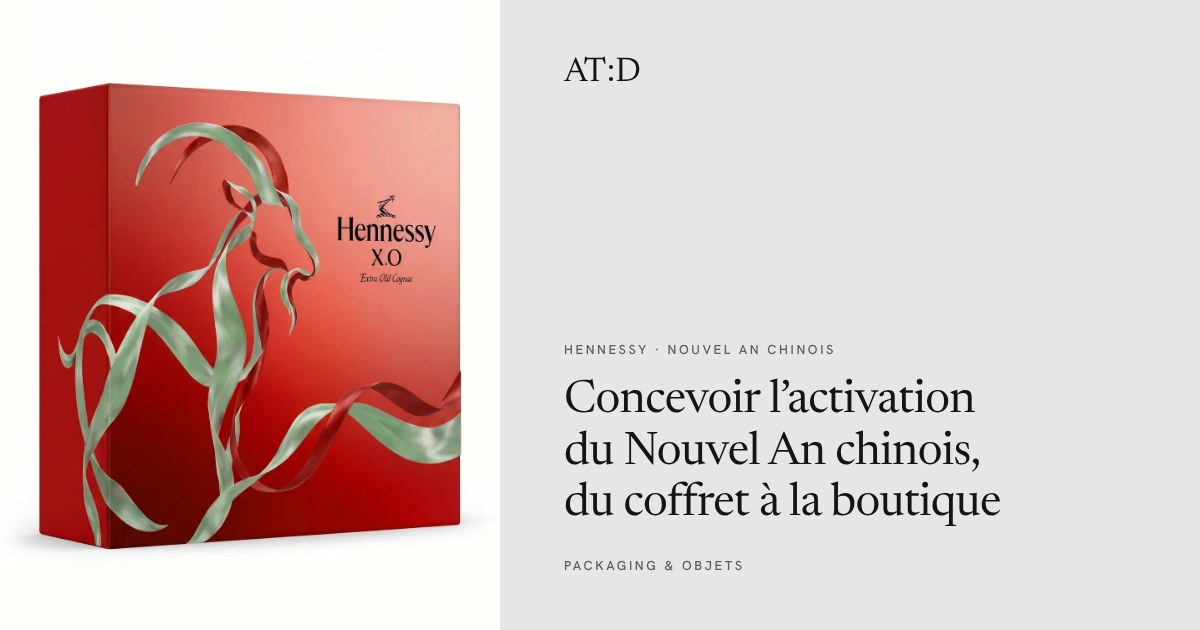
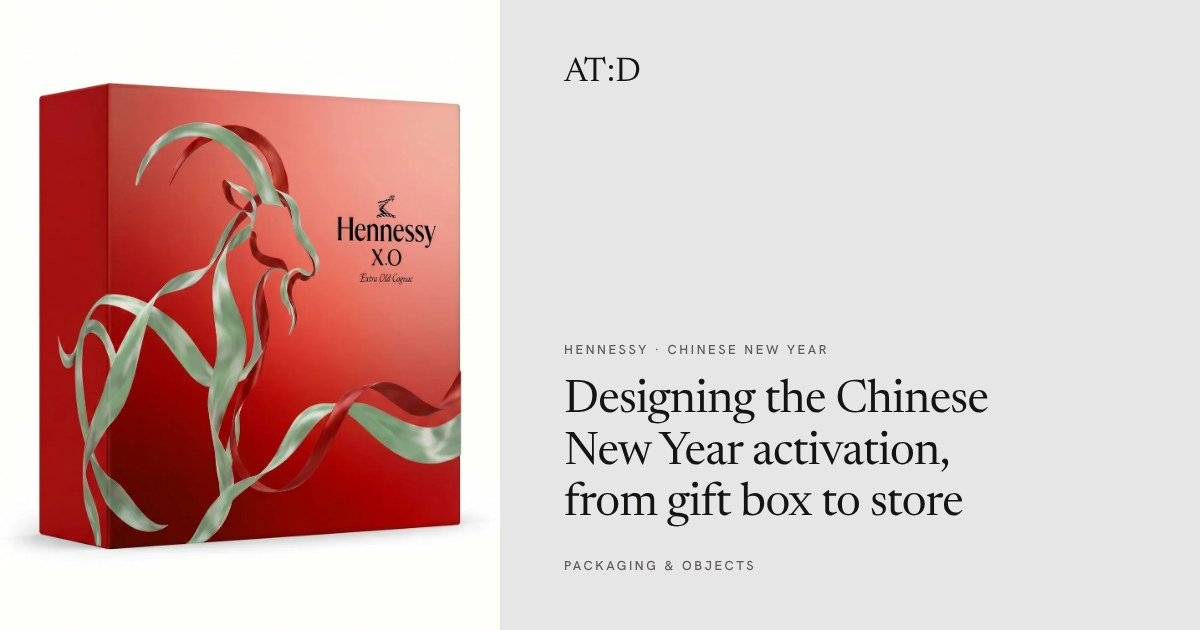
Pages de partage en anglais
Claude-Session: https://claude.ai/code/session_01TzkrsKnutAh2YQEZf65EBJ

Changed region(s): [[0.4625, 0.6032, 0.8325, 0.8444], [0.555, 0.5429, 0.7092, 0.573]]

diff --git a/p/hennessy-douce-prosperite/index.html b/p/hennessy-douce-prosperite/index.html
@@ -1,15 +1,15 @@
 <!doctype html>
-<html lang="fr"><head><meta charset="utf-8">
-<title>Hennessy · Nouvel An chinois · Concevoir l’activation du Nouvel An chinois, du coffret à la boutique · AT:D</title>
-<meta name="description" content="Un ruban qui enlace la carafe X.O, puis se déploie du coffret à la vitrine.">
+<html lang="en"><head><meta charset="utf-8">
+<title>Hennessy · Chinese New Year · Designing the Chinese New Year activation, from gift box to store · AT:D</title>
+<meta name="description" content="A ribbon that embraces the X.O carafe, then unfolds from the gift box to the window.">
 <meta property="og:type" content="article">
 <meta property="og:site_name" content="Aldric Trouabal · AT:D">
-<meta property="og:title" content="Hennessy · Nouvel An chinois · Concevoir l’activation du Nouvel An chinois, du coffret à la boutique">
-<meta property="og:description" content="Un ruban qui enlace la carafe X.O, puis se déploie du coffret à la vitrine.">
+<meta property="og:title" content="Hennessy · Chinese New Year · Designing the Chinese New Year activation, from gift box to store">
+<meta property="og:description" content="A ribbon that embraces the X.O carafe, then unfolds from the gift box to the window.">
 <meta property="og:url" content="https://aldrictrouabal.com/p/hennessy-douce-prosperite/">
-<meta property="og:image" content="https://aldrictrouabal.com/p/hennessy-douce-prosperite/card.jpg">
+<meta property="og:image" content="https://aldrictrouabal.com/p/hennessy-douce-prosperite/card.jpg?v=2">
 <meta property="og:image:width" content="1200"><meta property="og:image:height" content="630">
 <meta name="twitter:card" content="summary_large_image">
 <link rel="icon" href="/favicon.svg?v=2" type="image/svg+xml">
 <script>location.replace('/#hennessy-douce-prosperite')</script>
-</head><body style="background:#e6e6e6;font-family:Georgia,serif"><p><a href="/#hennessy-douce-prosperite">Hennessy · Nouvel An chinois · Concevoir l’activation du Nouvel An chinois, du coffret à la boutique</a></p></body></html>
+</head><body style="background:#e6e6e6;font-family:Georgia,serif"><p><a href="/#hennessy-douce-prosperite">Hennessy · Chinese New Year · Designing the Chinese New Year activation, from gift box to store</a></p></body></html>

diff --git a/p/ruinart/index.html b/p/ruinart/index.html
@@ -1,15 +1,15 @@
 <!doctype html>
-<html lang="fr"><head><meta charset="utf-8">
-<title>Ruinart · Faire de la vitrine une crayère, pour raconter l’origine du Blanc de Blancs · AT:D</title>
-<meta name="description" content="Vitrine de fêtes : un bloc de craie ouvert en coupe, la lumière qui descend jusqu’à la bouteille.">
+<html lang="en"><head><meta charset="utf-8">
+<title>Ruinart · Turning a shop window into a crayère to tell where the Blanc de Blancs comes from · AT:D</title>
+<meta name="description" content="A holiday window: a chalk block cut open, and the light that comes down to the bottle.">
 <meta property="og:type" content="article">
 <meta property="og:site_name" content="Aldric Trouabal · AT:D">
-<meta property="og:title" content="Ruinart · Faire de la vitrine une crayère, pour raconter l’origine du Blanc de Blancs">
-<meta property="og:description" content="Vitrine de fêtes : un bloc de craie ouvert en coupe, la lumière qui descend jusqu’à la bouteille.">
+<meta property="og:title" content="Ruinart · Turning a shop window into a crayère to tell where the Blanc de Blancs comes from">
+<meta property="og:description" content="A holiday window: a chalk block cut open, and the light that comes down to the bottle.">
 <meta property="og:url" content="https://aldrictrouabal.com/p/ruinart/">
-<meta property="og:image" content="https://aldrictrouabal.com/p/ruinart/card.jpg">
+<meta property="og:image" content="https://aldrictrouabal.com/p/ruinart/card.jpg?v=2">
 <meta property="og:image:width" content="1200"><meta property="og:image:height" content="630">
 <meta name="twitter:card" content="summary_large_image">
 <link rel="icon" href="/favicon.svg?v=2" type="image/svg+xml">
 <script>location.replace('/#ruinart')</script>
-</head><body style="background:#e6e6e6;font-family:Georgia,serif"><p><a href="/#ruinart">Ruinart · Faire de la vitrine une crayère, pour raconter l’origine du Blanc de Blancs</a></p></body></html>
+</head><body style="background:#e6e6e6;font-family:Georgia,serif"><p><a href="/#ruinart">Ruinart · Turning a shop window into a crayère to tell where the Blanc de Blancs comes from</a></p></body></html>

diff --git a/p/hennessy-nba/index.html b/p/hennessy-nba/index.html
@@ -1,15 +1,15 @@
 <!doctype html>
-<html lang="fr"><head><meta charset="utf-8">
-<title>Hennessy · NBA · Vendre un concept avant que les prototypes existent · AT:D</title>
-<meta name="description" content="Des images assez justes pour faire valider un concept avant la fabrication.">
+<html lang="en"><head><meta charset="utf-8">
+<title>Hennessy · NBA · Selling in a concept before the prototypes exist · AT:D</title>
+<meta name="description" content="Images precise enough to get a concept approved before anything is made.">
 <meta property="og:type" content="article">
 <meta property="og:site_name" content="Aldric Trouabal · AT:D">
-<meta property="og:title" content="Hennessy · NBA · Vendre un concept avant que les prototypes existent">
-<meta property="og:description" content="Des images assez justes pour faire valider un concept avant la fabrication.">
+<meta property="og:title" content="Hennessy · NBA · Selling in a concept before the prototypes exist">
+<meta property="og:description" content="Images precise enough to get a concept approved before anything is made.">
 <meta property="og:url" content="https://aldrictrouabal.com/p/hennessy-nba/">
-<meta property="og:image" content="https://aldrictrouabal.com/p/hennessy-nba/card.jpg">
+<meta property="og:image" content="https://aldrictrouabal.com/p/hennessy-nba/card.jpg?v=2">
 <meta property="og:image:width" content="1200"><meta property="og:image:height" content="630">
 <meta name="twitter:card" content="summary_large_image">
 <link rel="icon" href="/favicon.svg?v=2" type="image/svg+xml">
 <script>location.replace('/#hennessy-nba')</script>
-</head><body style="background:#e6e6e6;font-family:Georgia,serif"><p><a href="/#hennessy-nba">Hennessy · NBA · Vendre un concept avant que les prototypes existent</a></p></body></html>
+</head><body style="background:#e6e6e6;font-family:Georgia,serif"><p><a href="/#hennessy-nba">Hennessy · NBA · Selling in a concept before the prototypes exist</a></p></body></html>
